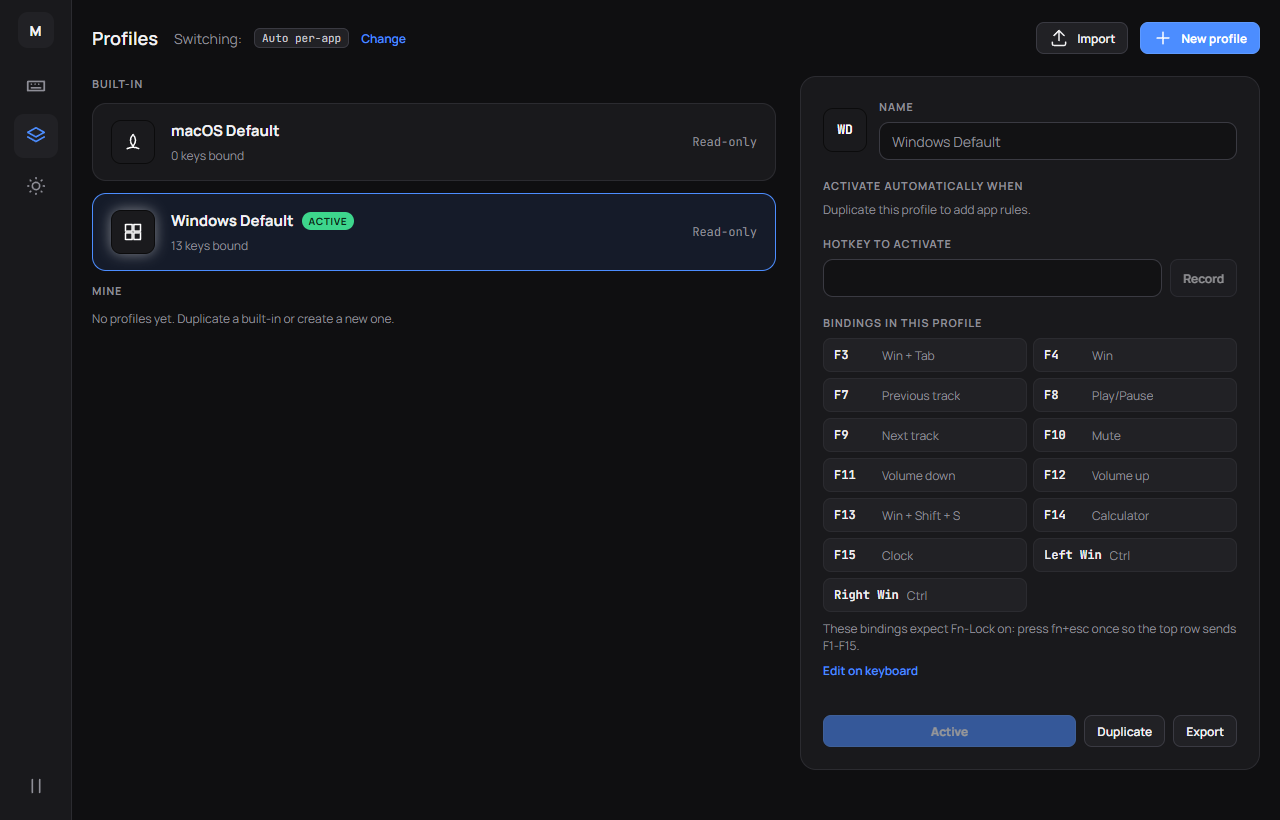
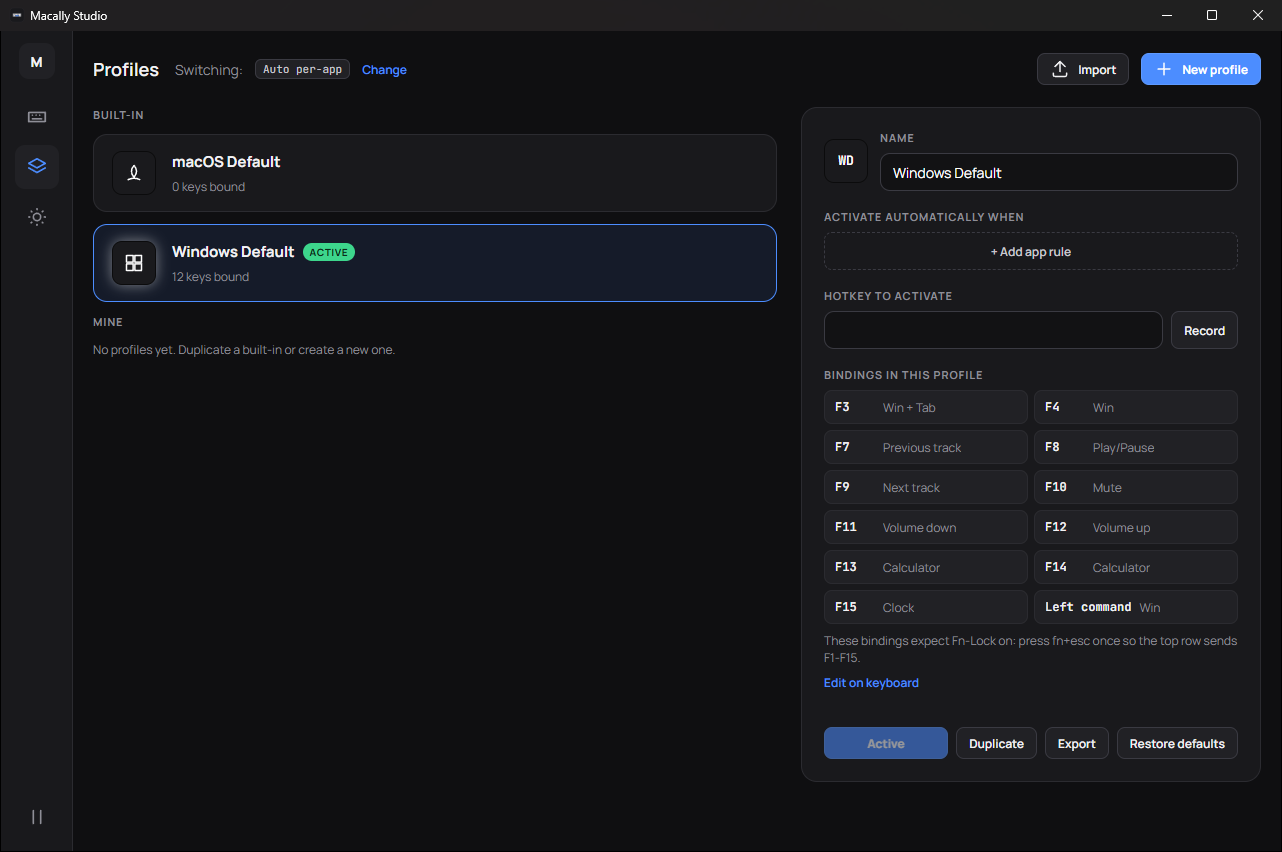
README: fresh Version 1.3 screenshots and a changelog for every release; add CHANGELOG.md

diff --git a/README.md b/README.md
@@ -43,9 +43,11 @@ Remap keys, launch apps and Steam games, and switch profiles automatically, on W
 
 ## Screenshots
 
-| Keyboard | Action picker |
+| Keyboard | Keycap picker |
 | :---: | :---: |
-| <img src="docs/images/keyboard-view.png" alt="Keyboard view with the 3D keyboard and the key inspector"> | <img src="docs/images/action-picker.png" alt="Action picker showing installed apps"> |
+| <img src="docs/images/keyboard-view.png" alt="Keyboard view with the 3D keyboard and the key inspector"> | <img src="docs/images/key-picker-win.png" alt="Keycap picker with the Win key and its Windows logo"> |
+| **Windows shortcuts** | **Launch program** |
+| <img src="docs/images/win-shortcuts.png" alt="Windows shortcut presets such as Win + V and Win + C"> | <img src="docs/images/launch-program.png" alt="Launch program tab with installed apps and their icons"> |
 | **Profiles** | **Settings** |
 | <img src="docs/images/profiles.png" alt="Profiles view"> | <img src="docs/images/settings.png" alt="Settings and updates"> |
 
@@ -102,6 +104,142 @@ cargo test --manifest-path src-tauri/Cargo.toml
 ```
 
 Installers come from GitHub Actions, which holds the update signing key. To compile a local release build without installers, run `npm run tauri build -- --no-bundle`; the app lands in `src-tauri/target/release/`.
+
+## 📜 Changelog
+
+[![Latest release](https://img.shields.io/github/v/release/TyroneMadison/Macally-Studio?label=latest%20release&color=4C8DFF&style=for-the-badge)](https://github.com/TyroneMadison/Macally-Studio/releases/latest) [![Full changelog](https://img.shields.io/badge/full%20changelog-CHANGELOG.md-3DD68C?style=for-the-badge)](CHANGELOG.md) [![Commits](https://img.shields.io/github/commit-activity/t/TyroneMadison/Macally-Studio?label=commits&color=8E8E97&style=flat-square)](https://github.com/TyroneMadison/Macally-Studio/commits/main)
+
+Legend: ✨ new · 🐛 fix · 🎨 look and feel · 🔖 version bump
+
+### 🚀 v1.3 · Launch program
+
+[![v1.3](https://img.shields.io/badge/v1.3-2026--10--14-4C8DFF?style=for-the-badge)](https://github.com/TyroneMadison/Macally-Studio/releases/tag/v1.3) ![commits](https://img.shields.io/badge/commits-2-8E8E97?style=flat-square)
+
+- ✨ Launch program in the key picker: installed programs from Start-menu shortcuts, App Paths and the Uninstall registry, with icons and search; programs start in their own folder [`0050236`](https://github.com/TyroneMadison/Macally-Studio/commit/0050236)
+- 🔖 Version 1.3 [`e9d14b6`](https://github.com/TyroneMadison/Macally-Studio/commit/e9d14b6) · [compare v1.2…v1.3](https://github.com/TyroneMadison/Macally-Studio/compare/v1.2...v1.3)
+
+<p align="center"><img src="docs/images/launch-program.png" alt="Launch program tab in the key picker with real app icons" width="720"></p>
+
+### 🪟 v1.2 · The Windows key and the keycap picker
+
+[![v1.2](https://img.shields.io/badge/v1.2-2026--10--14-4C8DFF?style=for-the-badge)](https://github.com/TyroneMadison/Macally-Studio/releases/tag/v1.2) ![commits](https://img.shields.io/badge/commits-3-8E8E97?style=flat-square)
+
+- 🐛 Fix the dead Windows key: Command is Win again, keys remapped to Win work in any chord, and swallowed presses no longer pop Start [`aa7d35c`](https://github.com/TyroneMadison/Macally-Studio/commit/aa7d35c)
+- ✨ Keycap picker: every key as a thumbnail, Windows logo on Win, send-with modifiers and Windows shortcuts like Win+V [`38ce4dd`](https://github.com/TyroneMadison/Macally-Studio/commit/38ce4dd)
+- 🔖 Version 1.2 [`9aa366a`](https://github.com/TyroneMadison/Macally-Studio/commit/9aa366a) · [compare v1.1…v1.2](https://github.com/TyroneMadison/Macally-Studio/compare/v1.1...v1.2)
+
+<table><tr>
+<td><img src="docs/images/key-picker-win.png" alt="Keycap picker with the Win key and its Windows logo"></td>
+<td><img src="docs/images/win-shortcuts.png" alt="Windows shortcut presets in the key picker: Win + V, Win + C and more"></td>
+</tr></table>
+
+### 🌀 v1.1 · 360° view, lighting and easy remapping
+
+[![v1.1](https://img.shields.io/badge/v1.1-2026--10--14-4C8DFF?style=for-the-badge)](https://github.com/TyroneMadison/Macally-Studio/releases/tag/v1.1) ![commits](https://img.shields.io/badge/commits-5-8E8E97?style=flat-square)
+
+- ✨ 3D view: full 360 orbit with tilt, brighter studio lighting, adjustable brightness and backlight [`85c1644`](https://github.com/TyroneMadison/Macally-Studio/commit/85c1644)
+- ✨ Remap keys by pressing or choosing from a list, pick keys by pressing them, and edit built-in profiles in place [`a3fa956`](https://github.com/TyroneMadison/Macally-Studio/commit/a3fa956)
+- 🐛 Remap fixes: one recording at a time, edits end a recording, saves build on the latest binding, hide keys the OS cannot send, zoom to 250% [`2b0eab2`](https://github.com/TyroneMadison/Macally-Studio/commit/2b0eab2)
+- 🎨 Start the 3D view closer and refresh the keyboard screenshot [`c6e1853`](https://github.com/TyroneMadison/Macally-Studio/commit/c6e1853)
+- 🔖 Version 1.1 [`bcba892`](https://github.com/TyroneMadison/Macally-Studio/commit/bcba892) · [compare v1.0…v1.1](https://github.com/TyroneMadison/Macally-Studio/compare/v1.0...v1.1)
+
+<p align="center"><img src="docs/images/keyboard-view.png" alt="Keyboard view with the 3D keyboard, rotate, tilt, zoom and lighting controls, and the key inspector" width="720"></p>
+
+### 🎉 v1.0 · First release, and everything before it
+
+[![v1.0](https://img.shields.io/badge/v1.0-2026--10--14-4C8DFF?style=for-the-badge)](https://github.com/TyroneMadison/Macally-Studio/releases/tag/v1.0) ![commits](https://img.shields.io/badge/commits-57-8E8E97?style=flat-square) ![since](https://img.shields.io/badge/first%20commit-2026--10--14-8E8E97?style=flat-square)
+
+The whole app came together in the commits up to the `v1.0` tag, from the first scaffold to the first public installers.
+
+<details>
+<summary><b>All 57 commits up to v1.0</b>, grouped by area</summary>
+
+**🧱 Foundation**
+
+- Scaffold Tauri app shell, theme, fonts, version policy, release script and CI [`f4078f0`](https://github.com/TyroneMadison/Macally-Studio/commit/f4078f0)
+- Add 107-key layout, keymap, get_layout command and the 3D keyboard view [`1668c19`](https://github.com/TyroneMadison/Macally-Studio/commit/1668c19)
+- Add Blender keyboard generator and README hero render [`499f266`](https://github.com/TyroneMadison/Macally-Studio/commit/499f266)
+- Tidy gitignore [`94afd87`](https://github.com/TyroneMadison/Macally-Studio/commit/94afd87)
+
+**⌨ Remap engine**
+
+- Add action types [`c7185b7`](https://github.com/TyroneMadison/Macally-Studio/commit/c7185b7)
+- Add the remap engine core [`6d865df`](https://github.com/TyroneMadison/Macally-Studio/commit/6d865df)
+- Add the Windows keyboard hook and hook self-test [`233a8a3`](https://github.com/TyroneMadison/Macally-Studio/commit/233a8a3)
+- Add the macOS event tap [`db051d2`](https://github.com/TyroneMadison/Macally-Studio/commit/db051d2)
+- Run key actions and start the engine [`7a51b42`](https://github.com/TyroneMadison/Macally-Studio/commit/7a51b42)
+- Keep held-with modifiers out of injected chords on Windows [`6810624`](https://github.com/TyroneMadison/Macally-Studio/commit/6810624)
+- Give macOS key events the flags of remapped modifiers so Cmd remapped to Ctrl makes Cmd+C arrive as Ctrl+C [`2e1b09d`](https://github.com/TyroneMadison/Macally-Studio/commit/2e1b09d)
+- Treat each macOS Caps Lock event as a full key press [`ba2ba6a`](https://github.com/TyroneMadison/Macally-Studio/commit/ba2ba6a)
+
+**🗂 Profiles and settings**
+
+- Add profile and settings store [`6aecf74`](https://github.com/TyroneMadison/Macally-Studio/commit/6aecf74)
+- Ship Windows Default and macOS Default profiles [`da35ef2`](https://github.com/TyroneMadison/Macally-Studio/commit/da35ef2)
+- Add profile and settings commands [`854c8a5`](https://github.com/TyroneMadison/Macally-Studio/commit/854c8a5)
+- Add typed IPC wrappers and app state [`e3b48a2`](https://github.com/TyroneMadison/Macally-Studio/commit/e3b48a2)
+- Add hotkey formatting and profile helpers [`3af215d`](https://github.com/TyroneMadison/Macally-Studio/commit/3af215d)
+- Add Profiles view [`016c76b`](https://github.com/TyroneMadison/Macally-Studio/commit/016c76b)
+- Add Settings view [`cdc5177`](https://github.com/TyroneMadison/Macally-Studio/commit/cdc5177)
+- Note that every profile switch goes through AppState::activate [`3406f53`](https://github.com/TyroneMadison/Macally-Studio/commit/3406f53)
+- Drop clashing hotkeys on import and back up unreadable settings.json [`4608508`](https://github.com/TyroneMadison/Macally-Studio/commit/4608508)
+- Queue saves and send only the changed fields so quick edits do not undo each other [`b9c2054`](https://github.com/TyroneMadison/Macally-Studio/commit/b9c2054)
+- Show the Fn-Lock hint, keyboard key count and permissions note [`9c920ec`](https://github.com/TyroneMadison/Macally-Studio/commit/9c920ec)
+- Add the foreground watcher and per-app profile switching [`41e8629`](https://github.com/TyroneMadison/Macally-Studio/commit/41e8629)
+- Add global hotkeys [`cbcf57b`](https://github.com/TyroneMadison/Macally-Studio/commit/cbcf57b)
+- Check the community example profile in a Rust test [`84381c6`](https://github.com/TyroneMadison/Macally-Studio/commit/84381c6)
+
+**🖥 App, tray and permissions**
+
+- Add the tray menu [`fc45809`](https://github.com/TyroneMadison/Macally-Studio/commit/fc45809)
+- Wire the engine, tray, hotkeys, foreground watcher and macOS permissions screen into the app [`860a358`](https://github.com/TyroneMadison/Macally-Studio/commit/860a358)
+- Ask for elevation once per run and apply login settings only at startup and when they change [`a4986f8`](https://github.com/TyroneMadison/Macally-Studio/commit/a4986f8)
+- Run get_status off the main thread [`d93e539`](https://github.com/TyroneMadison/Macally-Studio/commit/d93e539)
+- Start the window hidden so a login start never flashes it, and reopen it from the Dock on macOS [`5a125cd`](https://github.com/TyroneMadison/Macally-Studio/commit/5a125cd)
+
+**🧭 App catalog and action picker**
+
+- Add app catalog entry type, icon file names, ordering and dedupe [`bcee5a6`](https://github.com/TyroneMadison/Macally-Studio/commit/bcee5a6)
+- Add Steam library scanner with libraryfolders and appmanifest parsing [`80ba73d`](https://github.com/TyroneMadison/Macally-Studio/commit/80ba73d)
+- Add Windows Start apps scanner with shell icon extraction [`e5df627`](https://github.com/TyroneMadison/Macally-Studio/commit/e5df627)
+- Add macOS app bundle scanner with NSWorkspace icons [`e6679ec`](https://github.com/TyroneMadison/Macally-Studio/commit/e6679ec)
+- Cache the app catalog and add get_catalog and refresh_catalog commands [`2bcb149`](https://github.com/TyroneMadison/Macally-Studio/commit/2bcb149)
+- Add chord, record and catalog helpers for the action picker [`cb926a5`](https://github.com/TyroneMadison/Macally-Studio/commit/cb926a5)
+- Add chord field with Record for key combo bindings [`ae1cad9`](https://github.com/TyroneMadison/Macally-Studio/commit/ae1cad9)
+- Add action picker with app, Steam, URL, command and profile tabs [`204a421`](https://github.com/TyroneMadison/Macally-Studio/commit/204a421)
+- Add key inspector and key monitor strip [`fc21da7`](https://github.com/TyroneMadison/Macally-Studio/commit/fc21da7)
+- Wire the inspector, action picker and key monitor into the Keyboard view [`33d6ab5`](https://github.com/TyroneMadison/Macally-Studio/commit/33d6ab5)
+- Keep Monitor mode after a Record ends in an unmounted chord field [`93bb87d`](https://github.com/TyroneMadison/Macally-Studio/commit/93bb87d)
+- Keep Key Monitor off while the window is hidden [`545e00c`](https://github.com/TyroneMadison/Macally-Studio/commit/545e00c)
+- Keep browsed programs in the catalog and send the last catalog progress after the cache is saved [`f5bbfb5`](https://github.com/TyroneMadison/Macally-Studio/commit/f5bbfb5)
+- Always scan the main Steam library [`6f1de1e`](https://github.com/TyroneMadison/Macally-Studio/commit/6f1de1e)
+- Show modifiers in OS order and names and reject chords with unknown keys [`45a7ef7`](https://github.com/TyroneMadison/Macally-Studio/commit/45a7ef7)
+- Use as_chunks_mut for the icon pixel swap [`d3127c6`](https://github.com/TyroneMadison/Macally-Studio/commit/d3127c6)
+
+**🔄 Updates and releases**
+
+- Set the updater public key [`e8aac19`](https://github.com/TyroneMadison/Macally-Studio/commit/e8aac19)
+- Add release workflow, README, contributing guide, community profiles and issue forms [`24466fd`](https://github.com/TyroneMadison/Macally-Studio/commit/24466fd)
+- Add update check and install commands [`dfc0f24`](https://github.com/TyroneMadison/Macally-Studio/commit/dfc0f24)
+- Open Settings when an update is found [`74e0681`](https://github.com/TyroneMadison/Macally-Studio/commit/74e0681)
+- Check for updates from the UI once it listens and fail install when no update exists [`08fe4df`](https://github.com/TyroneMadison/Macally-Studio/commit/08fe4df)
+
+**🎨 Look and docs**
+
+- Render bound keys as backlit caps with glowing legends [`4e32705`](https://github.com/TyroneMadison/Macally-Studio/commit/4e32705)
+- Readable key names in the bindings grid and README screenshots [`fc777a3`](https://github.com/TyroneMadison/Macally-Studio/commit/fc777a3)
+- Describe the macOS permissions screen in the README [`7d1d945`](https://github.com/TyroneMadison/Macally-Studio/commit/7d1d945)
+- Explain re-granting macOS permissions after an update [`e77a13c`](https://github.com/TyroneMadison/Macally-Studio/commit/e77a13c)
+- README: mention Fn-Lock in the Windows install steps [`3962f45`](https://github.com/TyroneMadison/Macally-Studio/commit/3962f45)
+
+</details>
+
+<table><tr>
+<td><img src="docs/images/profiles.png" alt="Profiles view"></td>
+<td><img src="docs/images/settings.png" alt="Settings and updates"></td>
+</tr></table>
+
+<sub>Profiles and Settings as they look in Version 1.3.</sub>
 
 ## Contributing
 

diff --git a/CHANGELOG.md b/CHANGELOG.md
@@ -1,0 +1,132 @@
+# 📜 Changelog
+
+[![Latest release](https://img.shields.io/github/v/release/TyroneMadison/Macally-Studio?label=latest%20release&color=4C8DFF&style=for-the-badge)](https://github.com/TyroneMadison/Macally-Studio/releases/latest) [![Commits](https://img.shields.io/github/commit-activity/t/TyroneMadison/Macally-Studio?label=commits&color=8E8E97&style=flat-square)](https://github.com/TyroneMadison/Macally-Studio/commits/main) ![Versions](https://img.shields.io/badge/versions-1.0%20%E2%80%A6%201.9%20%E2%86%92%202.0-3DD68C?style=flat-square)
+
+Every entry below is a commit from this repository's history. Versions go 1.0, 1.1 … 1.9, then 2.0, and each `vX.Y` tag publishes a GitHub Release with the Windows and macOS installers.
+
+Legend: ✨ new · 🐛 fix · 🎨 look and feel · 🔖 version bump
+
+## 🚀 v1.3 · Launch program
+
+[![v1.3](https://img.shields.io/badge/v1.3-2026--10--14-4C8DFF?style=for-the-badge)](https://github.com/TyroneMadison/Macally-Studio/releases/tag/v1.3) ![commits](https://img.shields.io/badge/commits-2-8E8E97?style=flat-square)
+
+- ✨ Launch program in the key picker: installed programs from Start-menu shortcuts, App Paths and the Uninstall registry, with icons and search; programs start in their own folder [`0050236`](https://github.com/TyroneMadison/Macally-Studio/commit/0050236)
+- 🔖 Version 1.3 [`e9d14b6`](https://github.com/TyroneMadison/Macally-Studio/commit/e9d14b6) · [compare v1.2…v1.3](https://github.com/TyroneMadison/Macally-Studio/compare/v1.2...v1.3)
+
+<p align="center"><img src="docs/images/launch-program.png" alt="Launch program tab in the key picker with real app icons" width="760"></p>
+
+## 🪟 v1.2 · The Windows key and the keycap picker
+
+[![v1.2](https://img.shields.io/badge/v1.2-2026--10--14-4C8DFF?style=for-the-badge)](https://github.com/TyroneMadison/Macally-Studio/releases/tag/v1.2) ![commits](https://img.shields.io/badge/commits-3-8E8E97?style=flat-square)
+
+- 🐛 Fix the dead Windows key: Command is Win again, keys remapped to Win work in any chord, and swallowed presses no longer pop Start [`aa7d35c`](https://github.com/TyroneMadison/Macally-Studio/commit/aa7d35c)
+- ✨ Keycap picker: every key as a thumbnail, Windows logo on Win, send-with modifiers and Windows shortcuts like Win+V [`38ce4dd`](https://github.com/TyroneMadison/Macally-Studio/commit/38ce4dd)
+- 🔖 Version 1.2 [`9aa366a`](https://github.com/TyroneMadison/Macally-Studio/commit/9aa366a) · [compare v1.1…v1.2](https://github.com/TyroneMadison/Macally-Studio/compare/v1.1...v1.2)
+
+<table><tr>
+<td><img src="docs/images/key-picker-win.png" alt="Keycap picker with the Win key and its Windows logo"></td>
+<td><img src="docs/images/win-shortcuts.png" alt="Windows shortcut presets in the key picker: Win + V, Win + C and more"></td>
+</tr></table>
+
+## 🌀 v1.1 · 360° view, lighting and easy remapping
+
+[![v1.1](https://img.shields.io/badge/v1.1-2026--10--14-4C8DFF?style=for-the-badge)](https://github.com/TyroneMadison/Macally-Studio/releases/tag/v1.1) ![commits](https://img.shields.io/badge/commits-5-8E8E97?style=flat-square)
+
+- ✨ 3D view: full 360 orbit with tilt, brighter studio lighting, adjustable brightness and backlight [`85c1644`](https://github.com/TyroneMadison/Macally-Studio/commit/85c1644)
+- ✨ Remap keys by pressing or choosing from a list, pick keys by pressing them, and edit built-in profiles in place [`a3fa956`](https://github.com/TyroneMadison/Macally-Studio/commit/a3fa956)
+- 🐛 Remap fixes: one recording at a time, edits end a recording, saves build on the latest binding, hide keys the OS cannot send, zoom to 250% [`2b0eab2`](https://github.com/TyroneMadison/Macally-Studio/commit/2b0eab2)
+- 🎨 Start the 3D view closer and refresh the keyboard screenshot [`c6e1853`](https://github.com/TyroneMadison/Macally-Studio/commit/c6e1853)
+- 🔖 Version 1.1 [`bcba892`](https://github.com/TyroneMadison/Macally-Studio/commit/bcba892) · [compare v1.0…v1.1](https://github.com/TyroneMadison/Macally-Studio/compare/v1.0...v1.1)
+
+<p align="center"><img src="docs/images/keyboard-view.png" alt="Keyboard view with the 3D keyboard, rotate, tilt, zoom and lighting controls, and the key inspector" width="760"></p>
+
+## 🎉 v1.0 · First release, and everything before it
+
+[![v1.0](https://img.shields.io/badge/v1.0-2026--10--14-4C8DFF?style=for-the-badge)](https://github.com/TyroneMadison/Macally-Studio/releases/tag/v1.0) ![commits](https://img.shields.io/badge/commits-57-8E8E97?style=flat-square) ![since](https://img.shields.io/badge/first%20commit-2026--10--14-8E8E97?style=flat-square)
+
+The whole app came together in the commits up to the `v1.0` tag, from the first scaffold to the first public installers.
+
+**🧱 Foundation**
+
+- Scaffold Tauri app shell, theme, fonts, version policy, release script and CI [`f4078f0`](https://github.com/TyroneMadison/Macally-Studio/commit/f4078f0)
+- Add 107-key layout, keymap, get_layout command and the 3D keyboard view [`1668c19`](https://github.com/TyroneMadison/Macally-Studio/commit/1668c19)
+- Add Blender keyboard generator and README hero render [`499f266`](https://github.com/TyroneMadison/Macally-Studio/commit/499f266)
+- Tidy gitignore [`94afd87`](https://github.com/TyroneMadison/Macally-Studio/commit/94afd87)
+
+**⌨ Remap engine**
+
+- Add action types [`c7185b7`](https://github.com/TyroneMadison/Macally-Studio/commit/c7185b7)
+- Add the remap engine core [`6d865df`](https://github.com/TyroneMadison/Macally-Studio/commit/6d865df)
+- Add the Windows keyboard hook and hook self-test [`233a8a3`](https://github.com/TyroneMadison/Macally-Studio/commit/233a8a3)
+- Add the macOS event tap [`db051d2`](https://github.com/TyroneMadison/Macally-Studio/commit/db051d2)
+- Run key actions and start the engine [`7a51b42`](https://github.com/TyroneMadison/Macally-Studio/commit/7a51b42)
+- Keep held-with modifiers out of injected chords on Windows [`6810624`](https://github.com/TyroneMadison/Macally-Studio/commit/6810624)
+- Give macOS key events the flags of remapped modifiers so Cmd remapped to Ctrl makes Cmd+C arrive as Ctrl+C [`2e1b09d`](https://github.com/TyroneMadison/Macally-Studio/commit/2e1b09d)
+- Treat each macOS Caps Lock event as a full key press [`ba2ba6a`](https://github.com/TyroneMadison/Macally-Studio/commit/ba2ba6a)
+
+**🗂 Profiles and settings**
+
+- Add profile and settings store [`6aecf74`](https://github.com/TyroneMadison/Macally-Studio/commit/6aecf74)
+- Ship Windows Default and macOS Default profiles [`da35ef2`](https://github.com/TyroneMadison/Macally-Studio/commit/da35ef2)
+- Add profile and settings commands [`854c8a5`](https://github.com/TyroneMadison/Macally-Studio/commit/854c8a5)
+- Add typed IPC wrappers and app state [`e3b48a2`](https://github.com/TyroneMadison/Macally-Studio/commit/e3b48a2)
+- Add hotkey formatting and profile helpers [`3af215d`](https://github.com/TyroneMadison/Macally-Studio/commit/3af215d)
+- Add Profiles view [`016c76b`](https://github.com/TyroneMadison/Macally-Studio/commit/016c76b)
+- Add Settings view [`cdc5177`](https://github.com/TyroneMadison/Macally-Studio/commit/cdc5177)
+- Note that every profile switch goes through AppState::activate [`3406f53`](https://github.com/TyroneMadison/Macally-Studio/commit/3406f53)
+- Drop clashing hotkeys on import and back up unreadable settings.json [`4608508`](https://github.com/TyroneMadison/Macally-Studio/commit/4608508)
+- Queue saves and send only the changed fields so quick edits do not undo each other [`b9c2054`](https://github.com/TyroneMadison/Macally-Studio/commit/b9c2054)
+- Show the Fn-Lock hint, keyboard key count and permissions note [`9c920ec`](https://github.com/TyroneMadison/Macally-Studio/commit/9c920ec)
+- Add the foreground watcher and per-app profile switching [`41e8629`](https://github.com/TyroneMadison/Macally-Studio/commit/41e8629)
+- Add global hotkeys [`cbcf57b`](https://github.com/TyroneMadison/Macally-Studio/commit/cbcf57b)
+- Check the community example profile in a Rust test [`84381c6`](https://github.com/TyroneMadison/Macally-Studio/commit/84381c6)
+
+**🖥 App, tray and permissions**
+
+- Add the tray menu [`fc45809`](https://github.com/TyroneMadison/Macally-Studio/commit/fc45809)
+- Wire the engine, tray, hotkeys, foreground watcher and macOS permissions screen into the app [`860a358`](https://github.com/TyroneMadison/Macally-Studio/commit/860a358)
+- Ask for elevation once per run and apply login settings only at startup and when they change [`a4986f8`](https://github.com/TyroneMadison/Macally-Studio/commit/a4986f8)
+- Run get_status off the main thread [`d93e539`](https://github.com/TyroneMadison/Macally-Studio/commit/d93e539)
+- Start the window hidden so a login start never flashes it, and reopen it from the Dock on macOS [`5a125cd`](https://github.com/TyroneMadison/Macally-Studio/commit/5a125cd)
+
+**🧭 App catalog and action picker**
+
+- Add app catalog entry type, icon file names, ordering and dedupe [`bcee5a6`](https://github.com/TyroneMadison/Macally-Studio/commit/bcee5a6)
+- Add Steam library scanner with libraryfolders and appmanifest parsing [`80ba73d`](https://github.com/TyroneMadison/Macally-Studio/commit/80ba73d)
+- Add Windows Start apps scanner with shell icon extraction [`e5df627`](https://github.com/TyroneMadison/Macally-Studio/commit/e5df627)
+- Add macOS app bundle scanner with NSWorkspace icons [`e6679ec`](https://github.com/TyroneMadison/Macally-Studio/commit/e6679ec)
+- Cache the app catalog and add get_catalog and refresh_catalog commands [`2bcb149`](https://github.com/TyroneMadison/Macally-Studio/commit/2bcb149)
+- Add chord, record and catalog helpers for the action picker [`cb926a5`](https://github.com/TyroneMadison/Macally-Studio/commit/cb926a5)
+- Add chord field with Record for key combo bindings [`ae1cad9`](https://github.com/TyroneMadison/Macally-Studio/commit/ae1cad9)
+- Add action picker with app, Steam, URL, command and profile tabs [`204a421`](https://github.com/TyroneMadison/Macally-Studio/commit/204a421)
+- Add key inspector and key monitor strip [`fc21da7`](https://github.com/TyroneMadison/Macally-Studio/commit/fc21da7)
+- Wire the inspector, action picker and key monitor into the Keyboard view [`33d6ab5`](https://github.com/TyroneMadison/Macally-Studio/commit/33d6ab5)
+- Keep Monitor mode after a Record ends in an unmounted chord field [`93bb87d`](https://github.com/TyroneMadison/Macally-Studio/commit/93bb87d)
+- Keep Key Monitor off while the window is hidden [`545e00c`](https://github.com/TyroneMadison/Macally-Studio/commit/545e00c)
+- Keep browsed programs in the catalog and send the last catalog progress after the cache is saved [`f5bbfb5`](https://github.com/TyroneMadison/Macally-Studio/commit/f5bbfb5)
+- Always scan the main Steam library [`6f1de1e`](https://github.com/TyroneMadison/Macally-Studio/commit/6f1de1e)
+- Show modifiers in OS order and names and reject chords with unknown keys [`45a7ef7`](https://github.com/TyroneMadison/Macally-Studio/commit/45a7ef7)
+- Use as_chunks_mut for the icon pixel swap [`d3127c6`](https://github.com/TyroneMadison/Macally-Studio/commit/d3127c6)
+
+**🔄 Updates and releases**
+
+- Set the updater public key [`e8aac19`](https://github.com/TyroneMadison/Macally-Studio/commit/e8aac19)
+- Add release workflow, README, contributing guide, community profiles and issue forms [`24466fd`](https://github.com/TyroneMadison/Macally-Studio/commit/24466fd)
+- Add update check and install commands [`dfc0f24`](https://github.com/TyroneMadison/Macally-Studio/commit/dfc0f24)
+- Open Settings when an update is found [`74e0681`](https://github.com/TyroneMadison/Macally-Studio/commit/74e0681)
+- Check for updates from the UI once it listens and fail install when no update exists [`08fe4df`](https://github.com/TyroneMadison/Macally-Studio/commit/08fe4df)
+
+**🎨 Look and docs**
+
+- Render bound keys as backlit caps with glowing legends [`4e32705`](https://github.com/TyroneMadison/Macally-Studio/commit/4e32705)
+- Readable key names in the bindings grid and README screenshots [`fc777a3`](https://github.com/TyroneMadison/Macally-Studio/commit/fc777a3)
+- Describe the macOS permissions screen in the README [`7d1d945`](https://github.com/TyroneMadison/Macally-Studio/commit/7d1d945)
+- Explain re-granting macOS permissions after an update [`e77a13c`](https://github.com/TyroneMadison/Macally-Studio/commit/e77a13c)
+- README: mention Fn-Lock in the Windows install steps [`3962f45`](https://github.com/TyroneMadison/Macally-Studio/commit/3962f45)
+
+<table><tr>
+<td><img src="docs/images/profiles.png" alt="Profiles view"></td>
+<td><img src="docs/images/settings.png" alt="Settings and updates"></td>
+</tr></table>
+
+<sub>Profiles and Settings as they look in Version 1.3.</sub>
